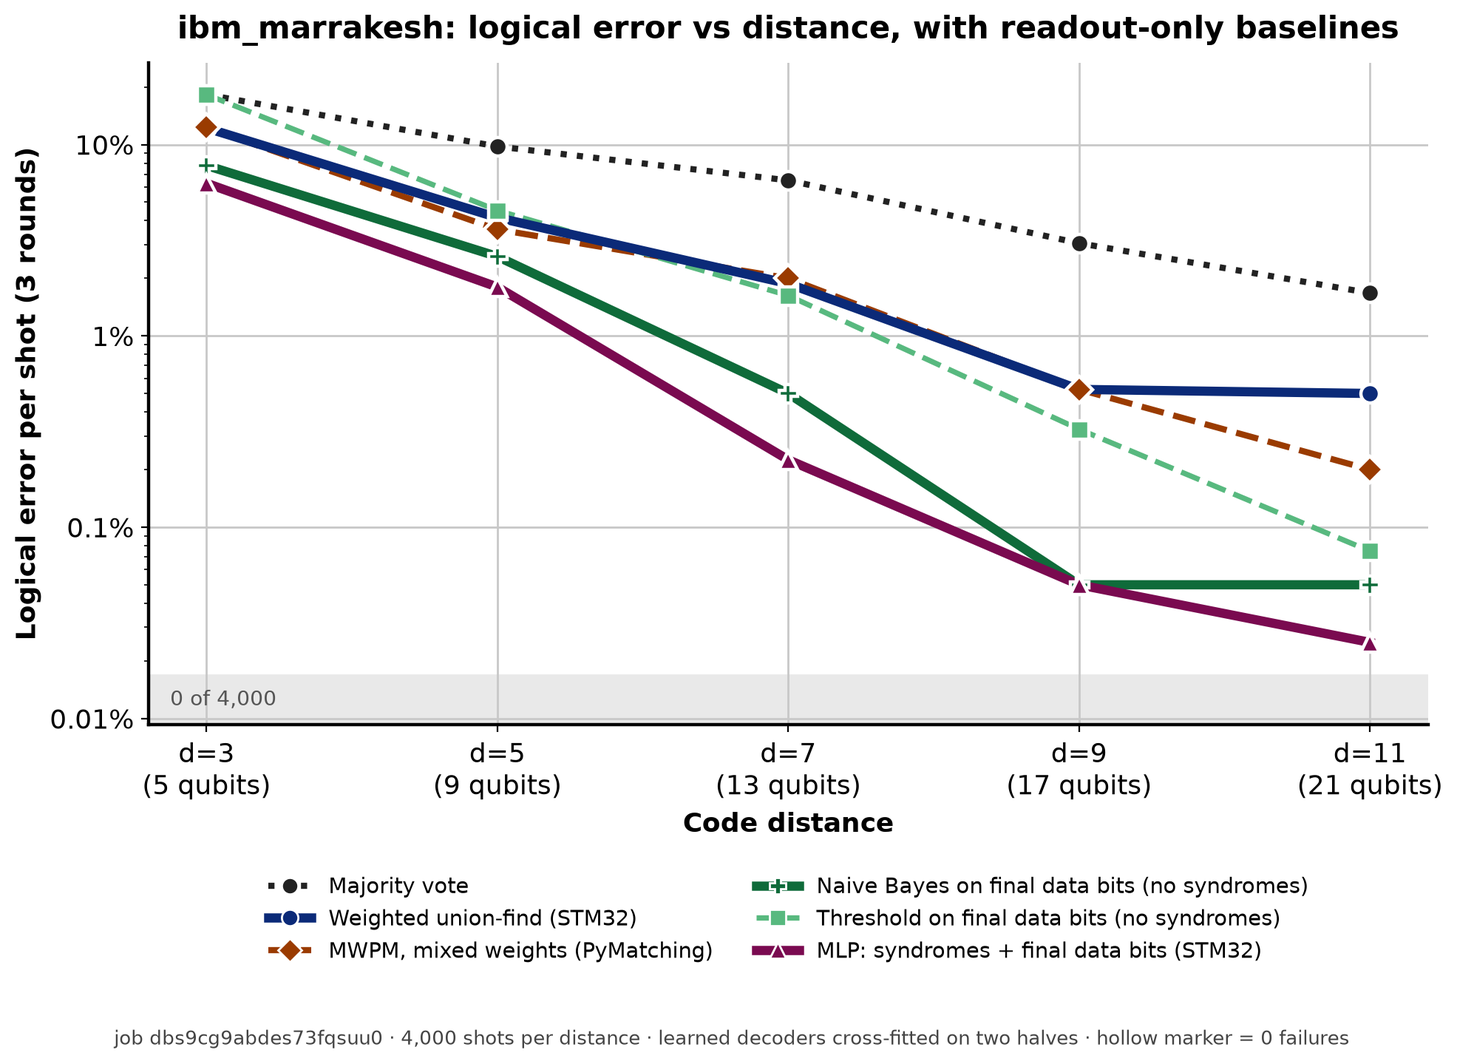
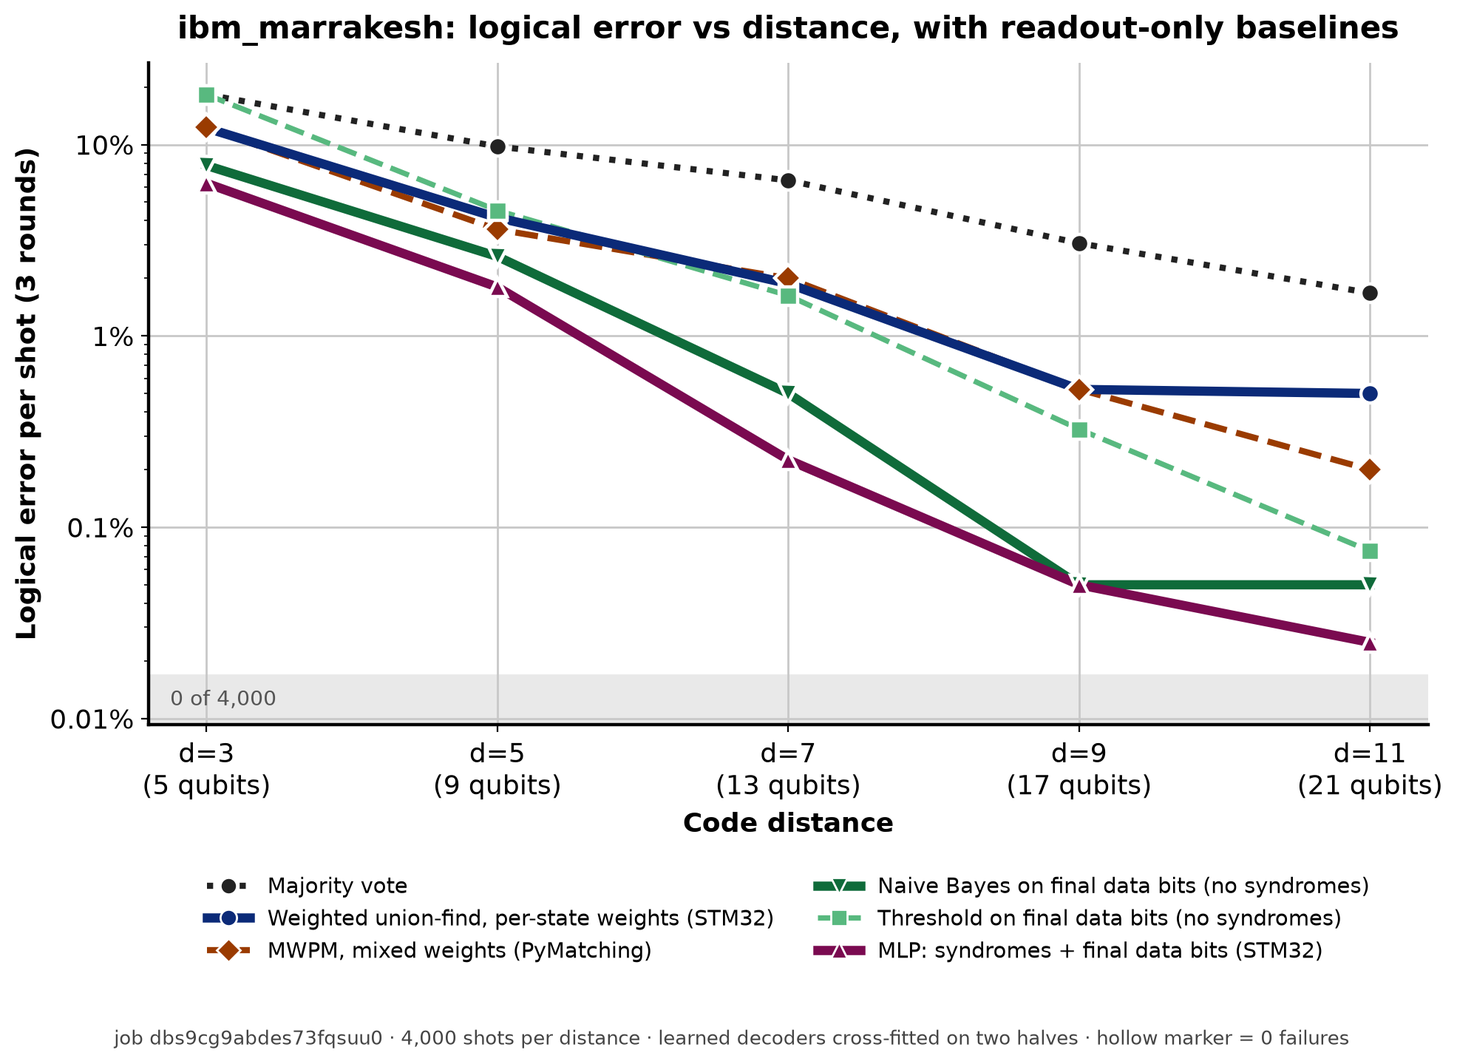
update readme

Changed region(s): [[0.1238, 0.8256, 0.9285, 0.9173]]

diff --git a/code/qec_lab/tools/plot_results.py b/code/qec_lab/tools/plot_results.py
@@ -52,9 +52,9 @@ col = lambda k: [float(rows[d][k]) for d in DS]
 base = [readout_baselines(d) for d in DS]
 series = [  # values, label, colour, linestyle, marker, width
     (col("majority"), "Majority vote", "#222222", ":", "o", 3.0),
-    (col("uf_weighted"), "Weighted union-find (STM32)", "#0b2a78", "-", "o", 4.5),
+    (col("uf_weighted"), "Weighted union-find, per-state weights (STM32)", "#0b2a78", "-", "o", 4.5),
     (col("pm_w_mixed"), "MWPM, mixed weights (PyMatching)", "#9a3b00", "--", "D", 3.0),
-    ([b[1] for b in base], "Naive Bayes on final data bits (no syndromes)", "#0f6b3a", "-", "P", 4.5),
+    ([b[1] for b in base], "Naive Bayes on final data bits (no syndromes)", "#0f6b3a", "-", "v", 4.5),
     ([b[0] for b in base], "Threshold on final data bits (no syndromes)", "#58b97f", "--", "s", 2.6),
     (col("ai"), "MLP: syndromes + final data bits (STM32)", "#7a0a50", "-", "^", 4.5),
 ]

diff --git a/README.md b/README.md
@@ -16,10 +16,11 @@ hackathon, see the [`junction_submission`](https://github.com/victor-onofre/QEC_
 > **Correction to the hackathon claim (November 2026).** The submission said that an on-device neural network makes
 > "up to 9.5× fewer errors than the best classical decoder". That comparison is misleading. Decoders that look only at
 > the final data readout and ignore every syndrome (a threshold on the number of 1s, or a per-qubit naive-Bayes rule)
-> beat every graph decoder on ibm_fez at all distances, and match the network almost everywhere. The network mostly
+> beat every graph decoder on ibm_fez at every distance where the graph decoders still fail (d ≤ 11), and match or
+> beat the network except at the smallest distances (d = 3 on ibm_fez, d ≤ 7 on ibm_marrakesh). The network mostly
 > learned the state-dependent decay of |1⟩ and which qubits to distrust, which the graph decoders were never told.
-> See [section 5.3](#53-the-neural-decoder-and-what-it-actually-learns). The video, the slides and the demo page
-> still carry the original wording.
+> See [section 5.3](#53-the-neural-decoder-and-what-it-actually-learns). The video, the slides, the demo page and
+> [`results/results_tables.md`](results/results_tables.md) still carry the original wording.
 
 ## Summary
 
@@ -33,6 +34,7 @@ hackathon, see the [`junction_submission`](https://github.com/victor-onofre/QEC_
 | Error suppression | ibm_fez: weighted union-find 4.8% at d=3 → 0.075% at d=11 (193 → 3 failures in 4,000) |
 | Decode time on the STM32 | fast union-find 7.7 µs (d=3) to 62 µs (d=25) per shot; MLP 11.9 µs (d=3), 16.8 µs (d=5) |
 | Real-time replay | d=5: MLP and weighted union-find have a limit τ* ≈ 8.7 µs per round; both kept up at the tested τ = 10 µs |
+| Other platforms | About 10× too slow for the fastest superconducting cycles; a margin of about 100× or more on millisecond-scale rounds (neutral atoms, trapped ions), for these small 1-D codes only ([section 6](#6-slower-platforms-neutral-atoms-and-trapped-ions)) |
 
 ## 1. What this is: a memory experiment
 
@@ -141,7 +143,7 @@ edge it contains. Code: `qec::configure` in [`sketch/qec_decoders.h`](code/qec_l
 `build_graph` in [`python/qec_common.py`](code/qec_lab/python/qec_common.py) (same edge order in both).
 
 **Edge probabilities from the data.** The Linux side estimates the probability of each bulk edge from pairwise
-detector correlations (the "p<sub>ij</sub>" method used in repetition-code experiments):
+detector correlations (the "p<sub>ij</sub>" method used in repetition-code experiments [8]):
 
 p<sub>ij</sub> = ½ − ½ √( 1 − 4(⟨x<sub>i</sub>x<sub>j</sub>⟩ − ⟨x<sub>i</sub>⟩⟨x<sub>j</sub>⟩) / (1 − 2⟨x<sub>i</sub>⟩ − 2⟨x<sub>j</sub>⟩ + 4⟨x<sub>i</sub>x<sub>j</sub>⟩) )
 
@@ -156,11 +158,11 @@ clipped to 1…15 and packed 4 bits per edge.
 |---|---|---|---|---|
 | Majority vote | STM32 | No | None | Baseline: majority of the final data bits |
 | Greedy matching | STM32 | Yes | None | Repeatedly pairs the closest detectors (Manhattan distance) or a detector with the nearer boundary |
-| Union-find, naive | STM32 | Yes | None | Delfosse–Nickerson cluster growth by half-edges, then peeling on a spanning forest |
+| Union-find, naive | STM32 | Yes | None | Delfosse–Nickerson [6] cluster growth by half-edges, then peeling on a spanning forest |
 | Union-find, fast | STM32 | Yes | None | Same answers; early exit on empty syndromes, lazy per-shot reset, growth visits only the vertices of active clusters |
 | Union-find, weighted | STM32 | Yes | p<sub>ij</sub> per edge, per logical state | Integer capacity per edge; capacity 2 everywhere reproduces the unweighted decoder |
 | MLP (multi-layer perceptron) | STM32 | Yes, plus the final data bits | Learned from labelled shots | (R+1)(d−1) + d binary inputs → 32 ReLU → 1 output: flip data qubit 0 or not |
-| MWPM (PyMatching) | Laptop | Yes | None, per-state p<sub>ij</sub>, or mixed-state p<sub>ij</sub> | Reference; "mixed" is the fair, label-free baseline |
+| MWPM (PyMatching [7]) | Laptop | Yes | None, per-state p<sub>ij</sub>, or mixed-state p<sub>ij</sub> | Reference; "mixed" is the fair, label-free baseline |
 
 The laptop tool [`tools/qec_offline.py`](code/qec_lab/tools/qec_offline.py) compiles the same C decoder files that run on
 the STM32, so the error rates below are what the microcontroller's code produces.
@@ -207,21 +209,28 @@ for 3 failures and 0.30–0.74% for 19.
 | 21 | 41 | 27 | 2 | 2 | 0 | 1 | 0 |
 | 25 | 49 | 13 | 0 | 0 | 0 | 0 | 0 |
 
-The logical error falls with distance on both chips for every decoder.
+The logical error falls overall with distance on both chips for every decoder (not monotonically at every step:
+on ibm_marrakesh majority vote goes from 67 to 72 failures between d = 11 and 15).
 
-**The ibm_marrakesh numbers are dominated by one bad qubit, and it is the logical observable.** On that chip, data
+**The ibm_marrakesh numbers are dominated by a bad qubit that is also the logical observable.** On that chip, data
 qubit 0 (physical qubit 82) reads 1 in about 26% of the logical-|0⟩ shots and 29% of the logical-|1⟩ shots, at every
 distance: its readout carries almost no information. Since the observable is defined as the value of data qubit 0,
 the marrakesh comparison mostly measures how well a decoder copes with a dead observable qubit. The line of qubits
 is chosen by a seeded random walk on the coupling map (`find_line`), not from calibration data, so the same line was
-used on both chips; on ibm_fez the same qubit behaves normally in |0⟩ (about 1% or less read as 1).
+used on both chips. On ibm_fez the same qubit reads correctly in |0⟩ (about 1% read as 1) but is among the worst in
+|1⟩ (18–29% of shots read 0, against a median of 13–15%). At d ≥ 15 the ibm_marrakesh line contains a second nearly
+dead qubit (data qubit 11, physical qubit 26), which reads 1 in only 8–9% of the logical-|1⟩ shots.
 
-![Logical error vs distance, ibm_marrakesh](media/logical_error_vs_distance_ibm_marrakesh.png)
 ![Logical error vs distance, ibm_fez](media/logical_error_vs_distance_ibm_fez.png)
+![Logical error vs distance, ibm_marrakesh](media/logical_error_vs_distance_ibm_marrakesh.png)
 
 Both charts are drawn by [`tools/plot_results.py`](code/qec_lab/tools/plot_results.py) and include the two readout-only
-baselines of section 5.3 (green). A hollow marker in the grey band means 0 failures in 4,000 shots. For clarity they
-show one graph decoder from the STM32 (weighted union-find) and one label-free reference (MWPM with mixed weights).
+baselines of section 5.3 (green). Notes for reading them:
+
+- They show d = 3…11 only. At d ≥ 15 the graph decoders reach 0 failures, while the threshold rule and the MLP do not.
+- A hollow marker in the grey band means 0 failures in 4,000 shots (95% upper bound about 0.1%). There are no error bars.
+- On ibm_fez the threshold and naive-Bayes rules give identical counts, so the two green lines coincide.
+- "Weighted union-find" uses per-state weights, which rely on the prepared state; "MWPM, mixed weights" does not.
 
 ### 5.2 State-dependent noise
 
@@ -235,15 +244,18 @@ over the 25 data qubits; layer 0 is the edge layer before the first syndrome rou
 | ibm_marrakesh | \|0⟩ | 0.60% | 0.15% / 0.31% / 0.68% | 0.40% | 1.9% |
 | ibm_marrakesh | \|1⟩ | 0.90% | 8.1% / 7.8% / 8.9% | 7.2% | 1.6% |
 
-- **A data qubit in |1⟩ flips about 18–23 times more often than one in |0⟩,** in the per-qubit median. Averaged over each code
-  instead, the ratio stored with the board results is 5–14 on ibm_fez and 3–7 on ibm_marrakesh.
+- **A data qubit in |1⟩ flips roughly 20 times more often than one in |0⟩,** in the per-qubit median (18× and 24×
+  from the table). The |0⟩ values are small and close to the estimator's lower clip, so the ratio is imprecise;
+  averaged over each code instead, the ratio stored with the board results is 5–14 on ibm_fez and 3–7 on
+  ibm_marrakesh. (`results/results_tables.md` quotes 19× and 16× from an earlier estimate with different medians.)
 - **The excess appears only after a full round.** Layer 0 is below 1% for both states; layers 1–3 jump to 4–9% for
   |1⟩. That is what decay during the ancilla measurement and reset would produce.
 - **Almost all logical failures are logical-|1⟩ shots.** Majority vote at d = 3: 0 failures on |0⟩ and 206 on |1⟩
   (fez-2); 40 and 690 on ibm_marrakesh.
 
 This breaks the assumption behind matching and union-find on this graph, where an edge has one probability whatever
-the data state. Per-state weights recover part of the gap, at the price of using knowledge of the prepared state.
+the data state. Data-derived weights help relative to uniform ones, but per-state weights, which use knowledge of
+the prepared state, are not consistently better than label-free mixed weights, except at d = 3 (tables in 5.1).
 
 ### 5.3 The neural decoder and what it actually learns
 
@@ -276,14 +288,16 @@ per-state ones that use the label, so it is generous to the graph decoders.
 
 Reading:
 
-- **On ibm_fez, ignoring the syndromes beats every graph decoder at every distance,** and beats the MLP for d ≥ 5.
-  The MLP's apparent error floor of 0.2–0.4% at large d is a training artefact: more inputs, the same 2,000 training
-  shots per fold.
+- **On ibm_fez, ignoring the syndromes beats every graph decoder at every distance where they still fail (d ≤ 11),**
+  and beats the MLP for d ≥ 5. At d ≥ 15 the graph decoders and naive Bayes are at 0 of 4,000, while the threshold
+  rule shows a few failures (1 at d = 15 and 3 at d = 25 on fez-2) and the MLP sits at 0.15–0.43%. That MLP floor is
+  a training artefact: more inputs, the same 2,000 training shots per fold.
 - **On ibm_marrakesh the threshold is not enough** (it loses to the graph decoders at d = 3 and 5), because one data
   qubit is uninformative. Naive Bayes, which can learn that, gets most of the way to the MLP: the 9.5× of the
   hackathon write-up (19 failures against 2 at d = 9) is matched exactly without any syndrome.
 - **The syndromes add a measurable gain to the MLP only at small distance:** d ≤ 7 on ibm_marrakesh and d = 3 on
-  ibm_fez. So the ratio "MLP against the best graph decoder" mostly measures a state prior and per-qubit readout
+  ibm_fez. There the MLP also beats the best possible lookup table on the final bits alone (an in-sample bound: 108
+  failures at d = 3 on fez-2, and 311 / 102 / 17 at d = 3 / 5 / 7 on ibm_marrakesh), so the gain does come from the syndromes. So the ratio "MLP against the best graph decoder" mostly measures a state prior and per-qubit readout
   statistics that the graph decoders lack, not learning of error correlations.
 - **The effect is specific to this experiment.** It needs data in a product state whose readout reveals the logical
   value, plus strongly biased decay. With a hidden random X-frame on the data, or in the phase-flip code, the
@@ -329,17 +343,69 @@ decode time includes detector computation but not unpacking the shot from memory
 
 **ibm_fez (fez-2), d = 11:** UF fast τ* = 14.8 µs, UF weighted 15.5 µs, UF naive 41 µs. Near the limit (83% busy)
 the p99 latency is already 1.2 ms. Decode time inside the replay is about 1.5× the isolated measurement, because it
-includes detector computation (1,523 cycles, 9.5 µs at d=11), which the isolated figures exclude, and interrupts.
+includes detector computation (part of the 1,523 cycles, 9.5 µs, of the majority column at d=11), which the other
+isolated figures exclude, and interrupts.
 
-For scale: the fastest superconducting error-correction cycles are about 1 µs [1], roughly ten times shorter than
-this limit (we did not record the round duration of our own circuits on Heron).
-Neutral-atom and trapped-ion platforms run rounds of roughly 100 µs to a few ms, which leaves a microcontroller a
-wide margin for a small code [10]. Dedicated decoders for superconducting hardware run on FPGAs, GPUs and custom
-chips [2–5].
+What these limits mean for different hardware platforms is discussed in [section 6](#6-slower-platforms-neutral-atoms-and-trapped-ions).
 
 All tables: [`results/results_tables.md`](results/results_tables.md). Raw shots: [`data/ibm_runs/`](data/ibm_runs/).
 
-## 6. Limitations
+## 6. Slower platforms: neutral atoms and trapped ions
+
+A decoder is fast enough when its throughput exceeds the rate at which syndromes arrive; otherwise the backlog grows
+without bound, which is what the replay test shows. So the relevant hardware number is the duration of one
+syndrome-extraction round.
+
+| Platform | Typical round | Our measured limit τ* | Ratio |
+|---|---|---|---|
+| Superconducting (fastest reported cycles) | ~1 µs [1] | 8.7 µs (d=5), 14.8 µs (d=11) | 0.1×: about ten times too slow |
+| Neutral atoms | 4.45 ms per round in a recent experiment [10] | same | ~500× (d=5), ~300× (d=11) |
+| Trapped ions | a millisecond or more [12]; a design study for a future architecture assumes 1–5 ms [11] | same | ~100× or more |
+
+The round times come from the cited sources, not from measurements of ours; on these platforms readout and moving
+atoms or ions dominate the round, and the times are falling as the hardware improves. Real-time decoders for
+superconducting hardware run on FPGAs, GPUs and custom chips [1, 3–5]; on the slow platforms, neural decoders on
+GPUs have been reported at 0.2–0.5 ms per round [13].
+
+**Why the ~100× does not transfer directly.** It is measured on a 1-D repetition code with 3 rounds. Five things
+stand between that number and a claim about a real atom or ion machine:
+
+1. **Code size.** A distance-d rotated surface code has (d²−1)/2 detectors per round for one basis, against d−1 for
+   the repetition code, and its decoding graph has higher degree and diagonal edges. Union-find cost grows roughly
+   with the number of defects and the cluster sizes. As a rough proxy only: our d = 25 repetition code has 24
+   detectors per round, as many as a d = 7 surface code in one basis. With fast union-find on ibm_fez data it costs
+   about 62 µs per 3-round shot in isolation, roughly 85–95 µs with detector computation and replay overhead, so
+   about 30 µs per round: a margin of a few tens at 1 ms. A d = 7 surface-code memory would also run about 7 rounds,
+   and a computation needs both bases (48 detectors per round). The 2-D number has to be measured, not extrapolated
+   (roadmap #5). These platforms also favour codes that are not matching problems at all, such as colour codes and
+   qLDPC codes [11][13], for which union-find on a simple graph does not apply directly.
+2. **Transport.** In our setup shots reach the microcontroller over the Bridge RPC at 13–15 ms per shot (two calls
+   per shot, so about 7 ms per call), slower than any of these rounds. The replay test avoids this by loading all shots into RAM first. A real system needs a direct,
+   deterministic link from the readout electronics to the microcontroller (roadmap #8).
+3. **Different noise.** Neutral atoms are limited by gate errors, leakage and atom loss; trapped ions by gate errors
+   and dephasing during transport and idling. Many of these faults can be heralded: erasure conversion [14], loss
+   detection [10]. Union-find was designed for mixed erasure and Pauli noise [6]: a heralded erasure on a known edge
+   is an edge that starts fully grown. Atom loss is harder, because a lost atom corrupts every later gate that
+   touches it, so the error model changes and not just one edge (roadmap #10). Nothing in our measured noise model
+   carries over.
+4. **What real time is needed for.** A memory experiment can be decoded offline. Real-time decoding matters once
+   logical operations depend on decoded outcomes (feed-forward, for example in magic-state injection). There the
+   requirement is on latency as well as throughput, and our replay shows latency rising sharply near the limit.
+5. **Several logical qubits.** One board would have to serve many code patches, or one board per patch is needed;
+   the margin is the budget for that. Transversal gates between patches call for correlated decoding across them,
+   and parallel window decoding relaxes the single-core throughput condition; neither is explored here.
+
+**On learned decoders for these platforms.** Machine-learning decoders have been used in neutral-atom [10] and
+trapped-ion [13] experiments, run offline and trained on very large simulated data sets, and adapting to
+device-specific noise is a real motivation. Section 5.3 is a caution
+for small networks trained on memory experiments: ours gained mostly from the readout statistics of a product
+state, an effect that says nothing about other platforms or codes.
+
+**Status.** We have no data from an atom or ion machine and no 2-D decoder. The claim supported by this repository
+is narrow: a 160 MHz microcontroller decodes small repetition codes at 9–15 µs per round, which is far from
+superconducting cycle times and well inside millisecond-scale rounds.
+
+## 7. Limitations
 
 - **Repetition code only.** Distance d against X errors, 1 against Z errors; no logical qubit is protected.
 - **Three rounds.** No error per round, no Λ. Boundary rounds dominate.
@@ -350,12 +416,13 @@ All tables: [`results/results_tables.md`](results/results_tables.md). Raw shots:
 - **The observable sits on a bad qubit on ibm_marrakesh,** and the qubit line is not chosen from calibration data (5.1).
 - **Not recorded:** round duration, measurement and reset lengths, T1 and readout error of the qubits used.
 - **No leakage handling, no soft information, no dynamical decoupling, no post-selection.**
+- **No atom or ion data, no 2-D code.** The discussion in section 6 is an argument from round times, not a test.
 - **Real time is a replay.** The timing on the STM32 is real; the loop with the QPU is not closed, and decoding
   happens after the job.
 - **STM32 statistics** use 400 shots per distance; the 4,000-shot error rates come from the same C code compiled on a laptop.
-- **Power not measured.** Public measurements of the board give 0.5 W idle and 2–3 W under load.
+- **Power not measured.** An independent review of the board reports about 0.5 W idle and 2–3 W under load [15].
 
-## 7. System
+## 8. System
 
 ![Architecture](media/architecture.png)
 
@@ -363,10 +430,10 @@ All tables: [`results/results_tables.md`](results/results_tables.md). Raw shots:
 |---|---|
 | Linux side (Qualcomm QRB2210, Debian, Python 3.13 in Arduino App Lab) | Qiskit 2.x and qiskit-ibm-runtime, job submission, run storage, p<sub>ij</sub> estimation, MLP training, web dashboard |
 | STM32U585 (Cortex-M33, 160 MHz) | All decoders, real-time replay engine, DWT cycle counter |
-| Bridge RPC (msgpack, ~3.5 ms per call) | Linux ↔ STM32; bulk loads only, never inside a timing measurement |
+| Bridge RPC (msgpack; 13–15 ms per shot at two calls per shot) | Linux ↔ STM32; bulk loads only, never inside a timing measurement |
 | Modulino Knob, Modulino Buzzer, 8×13 LED matrix | Knob sets τ in live mode; the matrix shows the backlog (log scale); the buzzer sounds when it grows |
 
-## 8. Repository layout
+## 9. Repository layout
 
 ```
 ├── README.md                 this file
@@ -385,7 +452,7 @@ All tables: [`results/results_tables.md`](results/results_tables.md). Raw shots:
 └── qec_lab_import.zip        the app, ready to import into Arduino App Lab
 ```
 
-## 9. Build and run
+## 10. Build and run
 
 1. Create a free IBM Quantum account (Open Plan); copy the API key and instance CRN. The "noise model" mode works
    without an account.
@@ -398,7 +465,7 @@ All tables: [`results/results_tables.md`](results/results_tables.md). Raw shots:
    `python3 code/qec_lab/tools/qec_offline.py ./runs`. Circuit pictures:
    `python3 code/qec_lab/tools/draw_circuits.py data/ibm_runs/<run>.json media/` (needs qiskit, matplotlib, pylatexenc).
 
-## 10. Credits and licence
+## 11. Credits and licence
 
 Arduino UNO Q, Arduino App Lab, Modulino Knob and Buzzer; IBM Quantum (Qiskit, qiskit-ibm-runtime); PyMatching;
 socket.io client 4.7.5. Union-find decoding after Delfosse and Nickerson [6]; matching reference PyMatching [7]; p<sub>ij</sub> method as in [8]. Code and documentation: MIT License (see
@@ -416,3 +483,8 @@ socket.io client 4.7.5. Union-find decoding after Delfosse and Nickerson [6]; ma
 8. Google Quantum AI, *Exponential suppression of bit or phase errors with cyclic error correction*, Nature 595, 383–387 (2021) (repetition-code memory experiments and the p<sub>ij</sub> method). https://arxiv.org/abs/2102.06132
 9. Neural repetition-code decoder on IBM hardware ("FiLM"), found in a literature search and not yet read in full. https://arxiv.org/abs/2601.16123
 10. Bluvstein et al., *Architectural mechanisms of a universal fault-tolerant quantum computer* (neutral atoms, 2025). https://arxiv.org/abs/2506.20661
+11. IonQ real-time decoding study modelling a trapped-ion architecture with a 1–5 ms cycle (news coverage). https://postquantum.com/engineering-news/ionq-real-time-decoder-cpu/
+12. *The classical stack behind quantum error correction* (overview quoting ~1 µs rounds for superconducting qubits and a millisecond or more for trapped ions). https://postquantum.com/quantum-computing/qec-classical-stack-infrastructure/
+13. Quantum Computing Report, *Quantinuum demonstrates 99.9995% logical memory fidelity on Helios trapped-ion processor* (neural decoders on GPUs). https://quantumcomputingreport.com/quantinuum-demonstrates-99-9995-logical-memory-fidelity-on-helios-trapped-ion-processor/
+14. Wu, Kolkowitz, Puri and Thompson, *Erasure conversion for fault-tolerant quantum computing in alkaline earth Rydberg atom arrays*, Nature Communications 13, 4657 (2022). https://arxiv.org/abs/2201.03540
+15. Jeff Geerling, *The Arduino Uno Q is a weird hybrid SBC* (power measurements). https://www.jeffgeerling.com/blog/2025/arduino-uno-q-weird-hybrid-sbc

diff --git a/ROADMAP.md b/ROADMAP.md
@@ -6,7 +6,7 @@ interesting and most honest work one person can do with this hardware.
 ## 1. First, a correction to the headline AI claim
 
 A check on the saved shots (same 2-fold split as `qec_ai.cross_val`) shows that a **one-parameter rule that ignores
-every syndrome** does as well as, or better than, the neural network on ibm_fez. The rule: count the 1s in the final
+every syndrome** does as well as, or better than, the neural network on ibm_fez for d ≥ 5 (at d = 3 the network is still ahead). The rule: count the 1s in the final
 data readout and compare with a threshold chosen on the training half ("if enough 1s survived, it was a 1").
 
 Failures out of 4,000 shots:
@@ -27,7 +27,7 @@ What it means:
 
 - The "2–9.5× fewer errors than classical" ratio mostly measures a **missing prior** in the graph decoders (they are
   never told that a stored 1 decays and a stored 0 does not), not learning by the network.
-- On ibm_fez the network is **worse** than the trivial rule; its "error floor" at d ≥ 11 is a training weakness.
+- On ibm_fez, for d ≥ 5, the network is **worse** than the trivial rule; its "error floor" at d ≥ 11 is a training weakness.
 - On ibm_marrakesh the network beats the threshold rule, but a per-qubit naive-Bayes rule on the final bits gets most of
   the way there and matches it at d = 9. On that chip data qubit 0 (physical qubit 82), which is the logical observable,
   is nearly uninformative, so the comparison mostly measures how decoders cope with one dead qubit.
